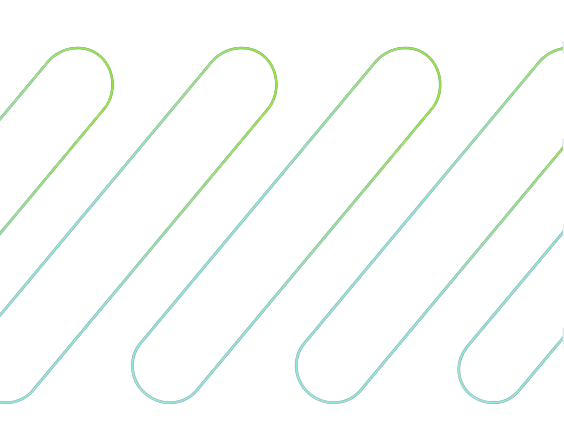
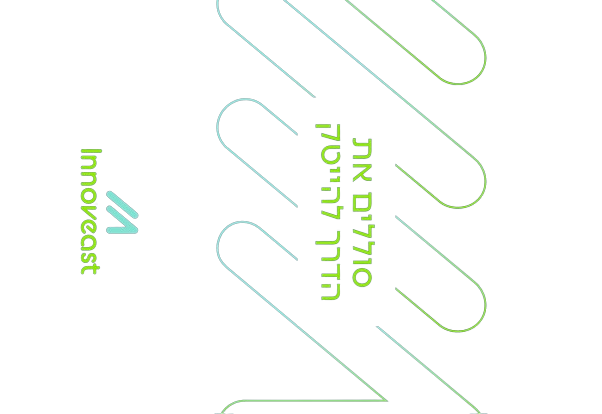
thanks page background img

diff --git a/client/src/pages/ThanksPage/style.module.scss b/client/src/pages/ThanksPage/style.module.scss
@@ -14,7 +14,9 @@
         height: 100%;
         object-fit: cover;
         position: absolute;
-        filter: drop-shadow(0px 0px 10px #000) blur(5px);
+        filter: drop-shadow(0px 0px 10px #000) blur(5px) brightness(0.5);
+        transform: rotate(-90deg);
+
 
     }
 }
@@ -370,7 +372,6 @@
                     span {
                         animation: popInMobile 0.8s cubic-bezier(.74, .06, .4, .92) forwards;
                         animation-delay: 2s;
-                        // התאם את הגדלים והמיקום כאן
                         width: 0px;
                         height: 0px;
                         bottom: 15px;
